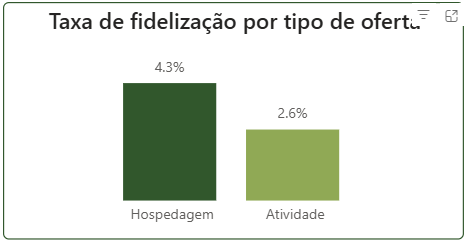
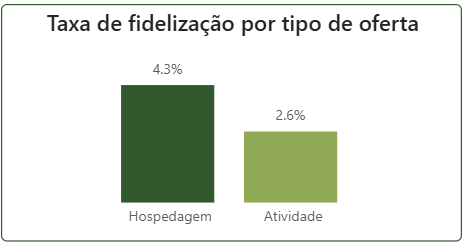
update README.md

diff --git a/README.md b/README.md
@@ -25,15 +25,15 @@ Leia mais sobre o projeto abaixo.
 
 ### Índice
 
-1. Contexto
-2. Premissas assumidas para a análise
-3. Ferramentas utilizadas
-4. Estratégia de solução
-5. O produto final do projeto
-6. Principais insights de dados
-7. Conclusão
-8. Próximos passos
-9. Referências
+[1. Contexto](https://github.com/luisamuzzi/projeto_ecoviagens?tab=readme-ov-file#1-contexto)
+[2. Premissas assumidas para a análise](https://github.com/luisamuzzi/projeto_ecoviagens?tab=readme-ov-file#2-premissas-assumidas-para-a-an%C3%A1lise)
+[3. Ferramentas utilizadas](https://github.com/luisamuzzi/projeto_ecoviagens?tab=readme-ov-file#3-ferramentas-utilizadas)
+[4. Estratégia de solução](https://github.com/luisamuzzi/projeto_ecoviagens?tab=readme-ov-file#4-estrat%C3%A9gia-de-solu%C3%A7%C3%A3o)
+[5. O produto final do projeto](https://github.com/luisamuzzi/projeto_ecoviagens?tab=readme-ov-file#5-o-produto-final-do-projeto)
+[6. Principais insights de dados](https://github.com/luisamuzzi/projeto_ecoviagens?tab=readme-ov-file#6-principais-insights-de-dados)
+[7. Conclusão](https://github.com/luisamuzzi/projeto_ecoviagens?tab=readme-ov-file#7-conclus%C3%A3o)
+[8. Próximos passos](https://github.com/luisamuzzi/projeto_ecoviagens?tab=readme-ov-file#8-pr%C3%B3ximos-passos)
+[9. Referências](https://github.com/luisamuzzi/projeto_ecoviagens?tab=readme-ov-file#9-refer%C3%AAncias)
 
 ### 1. Contexto
 
@@ -74,7 +74,7 @@ Esse projeto, portanto, percorreu quatro etapas: modelagem e armazenamento dos d
     
     O modelo de dados proposto:
 
-    ![DER](images/DER - EcoViagens.png)
+    ![DER](images/DER%20-%20EcoViagens.png)
     
     Detalhamento das entidades:
     
@@ -193,7 +193,7 @@ Esse projeto, portanto, percorreu quatro etapas: modelagem e armazenamento dos d
     
 3. **Análise de dados via SQL**
     
-    Nessa etapa, os dados do banco de dados foram analisados via consultas SQL para responder a perguntas de negócio específicas, visando auxiliar as equipes de negócio, marketing e experiência do cliente. O script comentado, com explicações do cálculo e seu objetivo, pode ser visto aqui: Script SQL.
+    Nessa etapa, os dados do banco de dados foram analisados via consultas SQL para responder a perguntas de negócio específicas, visando auxiliar as equipes de negócio, marketing e experiência do cliente. O script comentado, com explicações do cálculo e seu objetivo, pode ser visto aqui: [Script SQL](sql_scrips/perguntas_negocio.sql).
     
     As seguintes informações foram obtidas:
     
@@ -201,7 +201,7 @@ Esse projeto, portanto, percorreu quatro etapas: modelagem e armazenamento dos d
         
         Objetivo: Monitorar o crescimento da receita do negócio e identificar sazonalidades.
         
-        ![image.png](attachment:ec77a5ca-f1fc-47e8-8815-4c90804406ce:image.png)
+        ![image.png](images/sql1.png)
         
         A base de dados contém dados de um ano de funcionamento da EcoViagens, portanto, ainda não é possível fazer considerações sobre variações sazonais. 
         
@@ -213,7 +213,7 @@ Esse projeto, portanto, percorreu quatro etapas: modelagem e armazenamento dos d
         
         Objetivo: Identificar se os clientes estão investindo mais em experiências premium ou optando por opções econômicas.
         
-        ![image.png](attachment:d916c987-6212-4c22-beb6-5cf1bd0fa07e:image.png)
+        ![image.png](images/sql2.png)
         
         A análise do valor médio gasto por pessoa permitiu a comparação com o preço de venda médio de cada oferta para identificar se a preferência dos clientes era por alternativas mais econômicas ou experiências premium.
         
@@ -223,7 +223,7 @@ Esse projeto, portanto, percorreu quatro etapas: modelagem e armazenamento dos d
         
         Objetivo: Saber qual tipo de oferta é mais popular para orientar a divulgação dessas experiências no site da EcoViagens.
         
-        ![image.png](attachment:bffab187-817b-45af-87d7-a79d5967d70f:image.png)
+        ![image.png](images/sql3.png)
         
         A popularidade é ligeiramente maior para hospedagens. A popularidade relativamente equilibrada mostra que ambos os tipos de oferta são relevantes para os usuários. Portanto, recomenda-se que tanto ofertas de hospedagem quanto de atividades sejam promovidas no site da EcoViagens, com possível destaque para hospedagens.
         
@@ -231,7 +231,7 @@ Esse projeto, portanto, percorreu quatro etapas: modelagem e armazenamento dos d
         
         Objetivo: Medir o engajamento, satisfação e fidelização com as experiências oferecidas.
         
-        ![image.png](attachment:303a9430-e422-46ba-880d-b60393a56633:image.png)
+        ![image.png](images/sql4.png)
         
         A taxa de fidelização indicou que quase 1/4 da base de clientes retorna para novas experiências na EcoViagens. O número não é elevado e há espaço para crescimento e aumento do LTV por meio de estratégias como: implementação de programas de fidelidade, descontos progressivos e benefícios exclusivos para clientes recorrentes; monitoramento da taxa para verificar o impacto de melhorias na experiência do usuário e campanhas de marketing; comparar o perfil dos clientes recorrentes e únicos para identificar possíveis diferenças e oportunidades de melhoria.
         
@@ -239,7 +239,7 @@ Esse projeto, portanto, percorreu quatro etapas: modelagem e armazenamento dos d
         
         Objetivo: Identificar as ofertas com o melhor desempenho percebido pelo cliente.
         
-        ![image.png](attachment:af297849-cf44-4ad1-873b-78afde041f3a:image.png)
+        ![image.png](images/sql5.png)
         
         Notas de avaliação maiores mostram que a oferta está satisfazendo mais os clientes e possui maior valor percebido. Portanto, ofertas mais bem avaliadas podem ser destacadas no site para atrair mais usuários e potencializar conversões. Além disso, ofertas mal avaliadas devem receber atenção do time operacional para identificar motivos das notas baixas e promover ações de melhoria.
         
@@ -247,7 +247,7 @@ Esse projeto, portanto, percorreu quatro etapas: modelagem e armazenamento dos d
         
         Objetivo: Garantir que as ofertas estejam atreladas aos valores da marca (impacto ambiental positivo).
         
-        ![image.png](attachment:271b4619-fcc0-4df3-ac72-43c533e61288:image.png)
+        ![image.png](images/sql6.png)
         
         O índice de práticas sustentáveis está abaixo da meta da empresa (90%). Um índice elevado é fundamental para refletir o compromisso e propósito da EcoViagens com o turismo sustentável. Recomenda-se o monitoramento contínuo para identificar a necessidade de ações educativas ou de incentivo a adoção de práticas sustentáveis.
         
@@ -255,7 +255,7 @@ Esse projeto, portanto, percorreu quatro etapas: modelagem e armazenamento dos d
         
         Objetivo: Identificar quais práticas sustentáveis são mais valorizadas e têm maior impacto no posicionamento e narrativa da EcoViagens.
         
-        ![image.png](attachment:02ac18bc-92b7-4e22-b97d-c848cb7bff4d:image.png)
+        ![image.png](images/sql7.png)
         
         A listagem de práticas sustentáveis mais populares pode ser usada pelo time de marketing na criação de material educativo para incentivar a adoção dessas práticas pelos nossos parceiros. Além disso, pode ser usada para destaque das práticas mais valorizadas nos canais de comunicação.
         
@@ -263,7 +263,7 @@ Esse projeto, portanto, percorreu quatro etapas: modelagem e armazenamento dos d
         
         Objetivo: Auxiliar na criação de campanhas de reengajamento no momento ideal e evitar churn.
         
-        ![image.png](attachment:1be76337-d459-45ec-b9c3-9e7ed9ac976e:image.png)
+        ![image.png](images/sql8.png)
         
         Esse indicador pode ser usada pelo time de CRM para identificação do momento certo de realizar campanhas de reengajamento, aumentando a eficiência das ações e diminuindo o churn.
         
@@ -271,13 +271,13 @@ Esse projeto, portanto, percorreu quatro etapas: modelagem e armazenamento dos d
         
         Objetivo: Premiar os melhores parceiros e oferecer treinamento aos demais.
         
-        ![image.png](attachment:d617993e-1fc1-4518-b820-65a034c69cb6:image.png)
+        ![image.png](images/sql9.png)
         
         A listagem obtida pode ser usada pelo time de operações em premiações aos melhores operadores e direcionamento de treinamentos aos mais mal avaliados. 
         
 4. **Dashboards de acompanhamento do desempenho do negócio**
     
-    Nessa etapa foram elaborados cinco dashboards de monitoramento por meio de conexão direta do Power BI com os dados no PostgreSQL. Eles podem ser vistos neste [relatório em Power BI](https://app.powerbi.com/view?r=eyJrIjoiYjAwMzUxOGQtYzgxMS00NDU3LTk1M2QtYjY4YTUxYmUyMTY0IiwidCI6ImUyZjc3ZDAwLTAxNjMtNGNmNi05MmIwLTQ4NGJhZmY5ZGY3ZCJ9). Além disso, as métricas apresentadas nos dashboards foram verificadas e validadas por meio de consultas SQL para garantir a consistência das informações apresentadas (Script validação SQL).
+    Nessa etapa foram elaborados cinco dashboards de monitoramento por meio de conexão direta do Power BI com os dados no PostgreSQL. Eles podem ser vistos neste [relatório em Power BI](https://app.powerbi.com/view?r=eyJrIjoiYjAwMzUxOGQtYzgxMS00NDU3LTk1M2QtYjY4YTUxYmUyMTY0IiwidCI6ImUyZjc3ZDAwLTAxNjMtNGNmNi05MmIwLTQ4NGJhZmY5ZGY3ZCJ9). Além disso, as métricas apresentadas nos dashboards foram verificadas e validadas por meio de consultas SQL para garantir a consistência das informações apresentadas [Script validação SQL](sql_scrips/validacao_bi.sql).
     
     - **Visão Operação:**
         
@@ -289,7 +289,7 @@ Esse projeto, portanto, percorreu quatro etapas: modelagem e armazenamento dos d
         
         O acompanhamento do percentual de cancelamento permite identificar se há tendências de aumento significativo nessa taxa e se é necessário investigar motivos para os clientes estarem cancelando, como insatisfação com a qualidade dos serviços ou problemas operacionais.
         
-        ![image.png](attachment:c3862e73-fa1d-40ef-8b64-07bfb1aa0ca7:image.png)
+        ![image.png](images/dash1.png)
         
     - **Visão Clientes:**
         
@@ -299,7 +299,7 @@ Esse projeto, portanto, percorreu quatro etapas: modelagem e armazenamento dos d
         
         A caracterização do perfil do cliente permite segmentar ações por gênero e idade.
         
-        ![image.png](attachment:3539cc20-724c-4399-a2f8-d761dea87c76:image.png)
+        ![image.png](images/dash2.png)
         
     - **Visão Ofertas:**
         
@@ -315,7 +315,7 @@ Esse projeto, portanto, percorreu quatro etapas: modelagem e armazenamento dos d
         
         O acompanhamento da nota média, receita e quantidade de reservas por tipo de oferta permite verificar se as ofertas mais bem avaliadas são também as mais rentáveis e populares. Além disso, o detalhamento por oferta permite identificar ofertas específicas com as melhores e piores performances, orientando ações de melhoria das ofertas de baixa performance e possibilitando verificar o que as melhores ofertas têm em comum.
         
-        ![image.png](attachment:1874c122-634e-4261-98c3-101c8c344b65:image.png)
+        ![image.png](images/dash3.png)
         
     - **Visão Operadores:**
         
@@ -323,7 +323,7 @@ Esse projeto, portanto, percorreu quatro etapas: modelagem e armazenamento dos d
         
         O acompanhamento da popularidade, receita e avaliação dos operadores permite identificar se boas avaliações refletem em maior popularidade e receita. Além disso, a visão detalhada por operador identifica operadores com melhor e pior desempenho, permitindo o direcionamento de ações como premiações aos melhores e treinamento aos mais mal avaliados.
         
-        ![image.png](attachment:e269a3b1-7d70-4033-bed1-e4ecdf453961:image.png)
+        ![image.png](images/dash4.png)
         
     - **Visão Sustentabilidade:**
         
@@ -335,7 +335,7 @@ Esse projeto, portanto, percorreu quatro etapas: modelagem e armazenamento dos d
         
         A visão detalhada por oferta permite identificar as ofertas que oferecem mais práticas sustentáveis e aquelas que não estão alinhadas ao propósito do negócio (não oferecem nenhuma prática sustentável). Além disso, permite verificar se há relação entre a quantidade de práticas sustentáveis oferecidas e o preço da oferta, sua nota de avaliação, a quantidade de reservas e a receita.
         
-        ![image.png](attachment:c23c5223-e603-4de6-a593-cf635acc7492:image.png)
+        ![image.png](images/dash5.png)
         
 
 ### 5. O produto final do projeto
@@ -343,9 +343,9 @@ Esse projeto, portanto, percorreu quatro etapas: modelagem e armazenamento dos d
 Conforme descrito anteriormente, as principais entregas do projeto foram:
 
 - O modelo de entidade relacionamento para o banco de dados.
-- O script Python para automação da carga de dados no banco de dados.
+- O [script Python](src/pipeline.py) para automação da carga de dados no banco de dados.
 - A proposta de KPIs a serem monitorados.
-- O script SQL com as respostas às perguntas de negócio.
+- O [script SQL](sql_scrips/perguntas_negocio.sql) com as respostas às perguntas de negócio.
 - Um [relatório em Power BI](https://app.powerbi.com/view?r=eyJrIjoiYjAwMzUxOGQtYzgxMS00NDU3LTk1M2QtYjY4YTUxYmUyMTY0IiwidCI6ImUyZjc3ZDAwLTAxNjMtNGNmNi05MmIwLTQ4NGJhZmY5ZGY3ZCJ9) para acompanhamento dos KPIs.
 - Uma [apresentação executiva](https://www.canva.com/design/DAHBt1sDoSc/tuKTbycc5F7xqb_LT2LkGQ/edit?utm_content=DAHBt1sDoSc&utm_campaign=designshare&utm_medium=link2&utm_source=sharebutton) contendo os principais insights e recomendações obtidos com base na análise dos dados.
 
@@ -353,7 +353,7 @@ Conforme descrito anteriormente, as principais entregas do projeto foram:
 
 - **A receita tem comportamento instável, apresentando 6 meses de queda durante o período de 12 meses analisados:**
     
-    ![image.png](attachment:8cbf86c1-8bb1-46a0-98fe-b511f0b2da9c:image.png)
+    ![image.png](images/insights1.png)
     
     Não há tendência de crescimento contínuo. Em alguns meses observa-se quedas de até 14% em relação ao mês anterior.
     
@@ -363,15 +363,16 @@ Conforme descrito anteriormente, as principais entregas do projeto foram:
     
     - A curto prazo: promoções e pacotes exclusivos para os meses de baixa demanda.
     - A longo prazo: análise preditiva com base em dados históricos para prever quedas na receita e planejar ações antecipadamente.
+
 - **A taxa geral de fidelização é baixa (23%). No cenário anual, a taxa caiu de 15,5% em 2024 para 11,2% em 2025:**
     
     2024:
     
-    ![image.png](attachment:dfb4bf2a-c279-4018-9e2d-3ae175da808e:image.png)
+    ![image.png](images/insights2.png)
     
     2025:
     
-    ![image.png](attachment:eec0c187-ca25-4575-94cb-217b28829d0a:image.png)
+    ![image.png](images/insights3.png)
     
     Quando segregamos por tipo de atividade, observa-se uma fidelização maior em ofertas do tipo “hospedagem”. No entanto, a taxa de fidelização dos clientes é baixa, ou seja, os clientes não estão percebendo valor suficiente para retornar.
     
@@ -382,9 +383,10 @@ Conforme descrito anteriormente, as principais entregas do projeto foram:
     - Programas de descontos progressivos para clientes recorrentes.
     - Envio automático de ofertas de descontos para novas reservas.
     - Revisão do posicionamento das “atividades”, pois possuem menor taxa de fidelização em relação às “hospedagens” e criar pacotes integrados de hospedagem e atividade.
+
 - **A diferença entre o ticket médio dos clientes recorrentes (R$ 853,50) e dos clientes únicos (R$ 823,69) é pequena (apenas R$ 29,81):**
     
-    ![image.png](attachment:0b47f005-1c4e-4512-b5f8-123bc3586955:image.png)
+    ![image.png](images/insights4.png)
     
     A diferença entre o ticket médio dos clientes recorrentes e dos clientes únicos é praticamente insignificante. Isso mostra que não estamos tendo retorno financeiro ao fidelizar clientes.
     
@@ -395,9 +397,10 @@ Conforme descrito anteriormente, as principais entregas do projeto foram:
     - Oferta de pacotes complementares no ato da reserva, como transporte, seguro viagem e alimentação.
     - Oferta de pacotes premium ou personalizados.
     - Estímulo à compra de pacotes em grupo ou família.
+    
 - **Um maior número de práticas sustentáveis não gera maior receita. Ofertas com poucas ou nenhuma prática sustentável apresentam os melhores resultados financeiros:**
     
-    ![image.png](attachment:39bfa9bb-eac5-457f-9247-b9c4e76ce524:image.png)
+    ![image.png](images/insights5.png)
     
     A quantidade de práticas sustentáveis oferecidas não reflete em aumento de receita. O que indica que os clientes não estão vendo valor na proposta de sustentabilidade.
     
